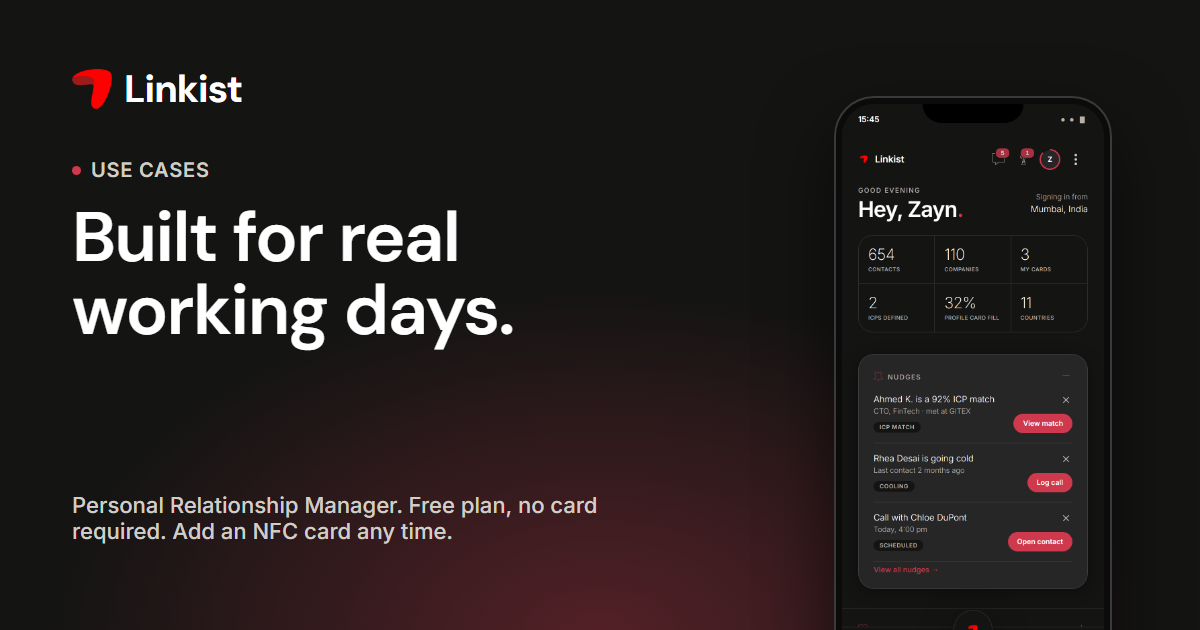
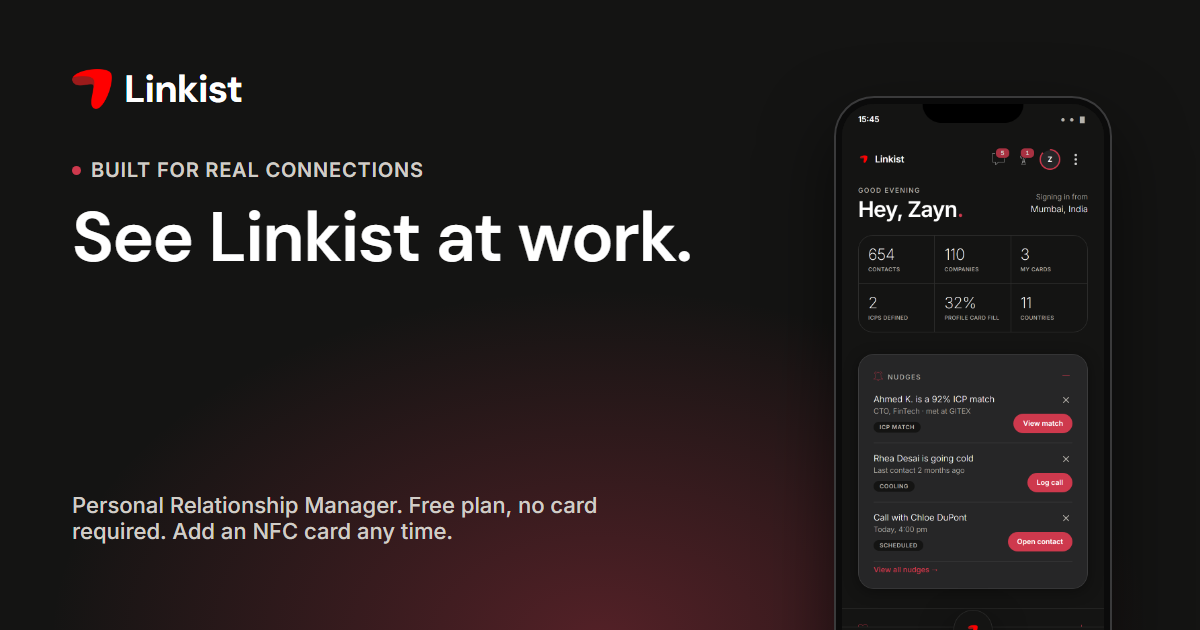
copy: use-case section is "Built for real connections" / "See Linkist at work."

Changed region(s): [[0.0617, 0.3317, 0.5858, 0.4222], [0.0617, 0.4524, 0.4317, 0.573], [0.0617, 0.2413, 0.37, 0.3016]]

diff --git a/src/content/og.ts b/src/content/og.ts
@@ -21,7 +21,7 @@ export const OG_PAGES: readonly OgPage[] = [
   { slug: 'features-act', title: 'Know what to do next.', eyebrow: 'Act', screen: 'v6-home' },
   { slug: 'features-profiles', title: 'One live profile. Every way to share it.', eyebrow: 'Profiles and cards', screen: 'profile-zayn' },
   { slug: 'features-teams', title: 'Relationships that stay with the company.', eyebrow: 'Teams', screen: 'v6-contacts' },
-  { slug: 'use-cases', title: 'Built for real working days.', eyebrow: 'Use cases', screen: 'v6-home' },
+  { slug: 'use-cases', title: 'See Linkist at work.', eyebrow: 'Built for real connections', screen: 'v6-home' },
   { slug: 'nfc-cards', title: 'Tap. Share. Make the first impression count.', eyebrow: 'Linkist NFC cards', screen: 'v6-share' },
   { slug: 'bring-your-own', title: 'Already have a NFC card or sticker? Bring it. We will make it live.', eyebrow: 'Bring your own NFC', screen: 'v6-shareready' },
   { slug: 'bundles', title: 'The NFC card and PRM Pro together.', eyebrow: 'Bundled offers', screen: 'v6-share' },

diff --git a/src/app/use-cases/page.tsx b/src/app/use-cases/page.tsx
@@ -21,7 +21,7 @@ export default function UseCasesHub() {
       <Section tight className="pt-8 sm:pt-10">
         <Breadcrumbs items={[{ label: 'Use cases', href: '/use-cases' }]} />
         <div className="mt-8">
-          <SectionHead as="h1" size={1} eyebrow="Built for real working days" title={<>See what Linkist looks like <span className="em-coral">in real life</span>.</>} lede="The problem is rarely collecting contacts. It is knowing what to do with them afterwards. 5 situations, each with the steps Linkist takes." />
+          <SectionHead as="h1" size={1} eyebrow="Built for real connections" title={<>See Linkist <span className="em-coral">at work</span>.</>} lede="The problem is rarely collecting contacts. It is knowing what to do with them afterwards. 5 situations, each with the steps Linkist takes." />
         </div>
       </Section>
       <Section tone="charcoal" tight>

diff --git a/src/app/page.tsx b/src/app/page.tsx
@@ -52,7 +52,7 @@ export default function HomePage() {
       </Section>
 
       <Section id="use-cases">
-        <SectionHead eyebrow="Built for real working days" title={<>See what Linkist looks like <span className="em-coral">in real life</span>.</>} lede="The problem is rarely collecting contacts. It is knowing what to do with them afterwards." center />
+        <SectionHead eyebrow="Built for real connections" title={<>See Linkist <span className="em-coral">at work</span>.</>} lede="The problem is rarely collecting contacts. It is knowing what to do with them afterwards." center />
         <div className="mt-12">
           <UseCaseGrid />
         </div>
